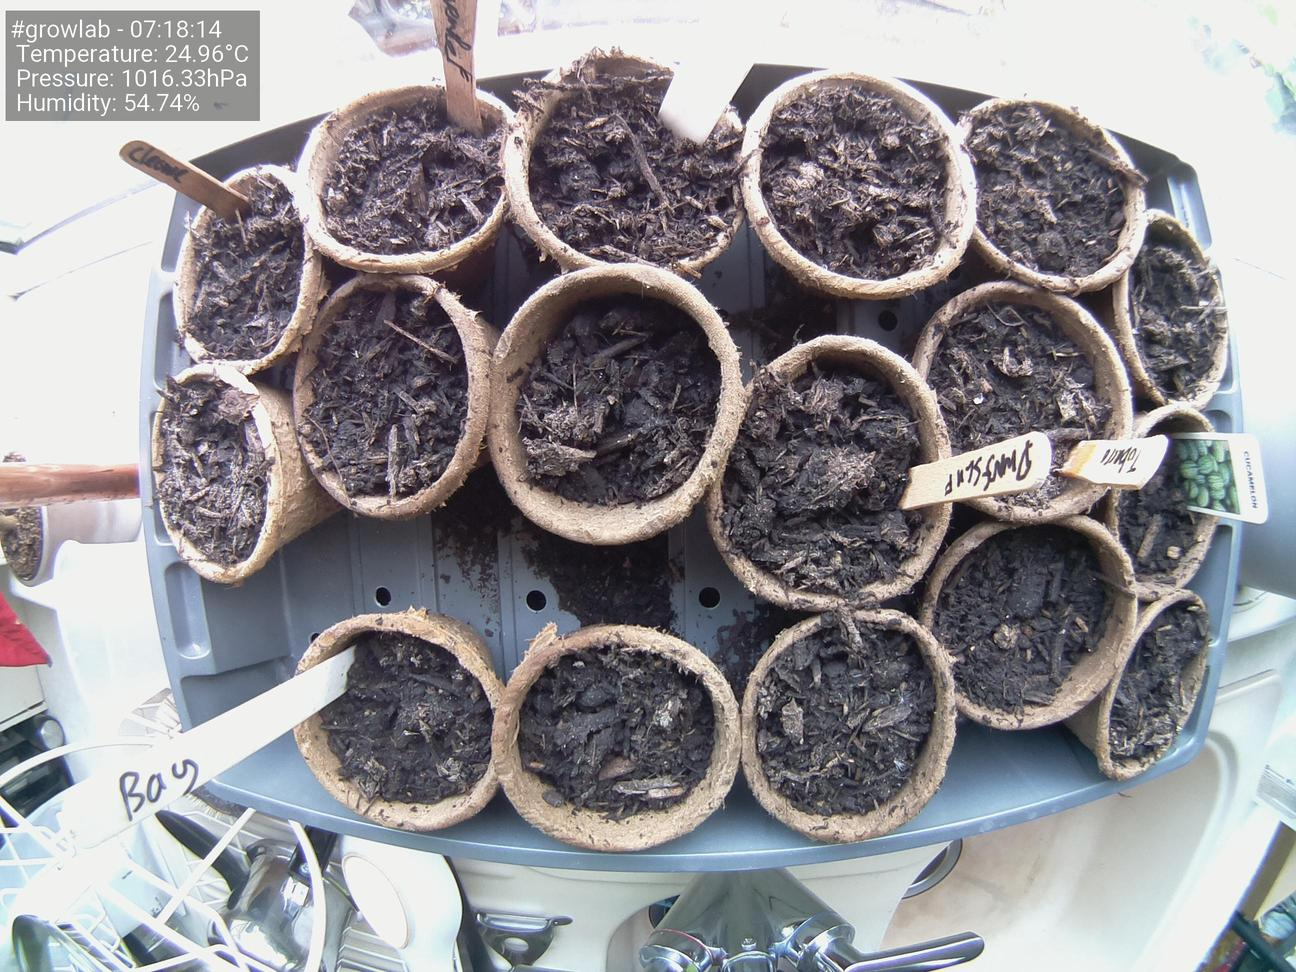
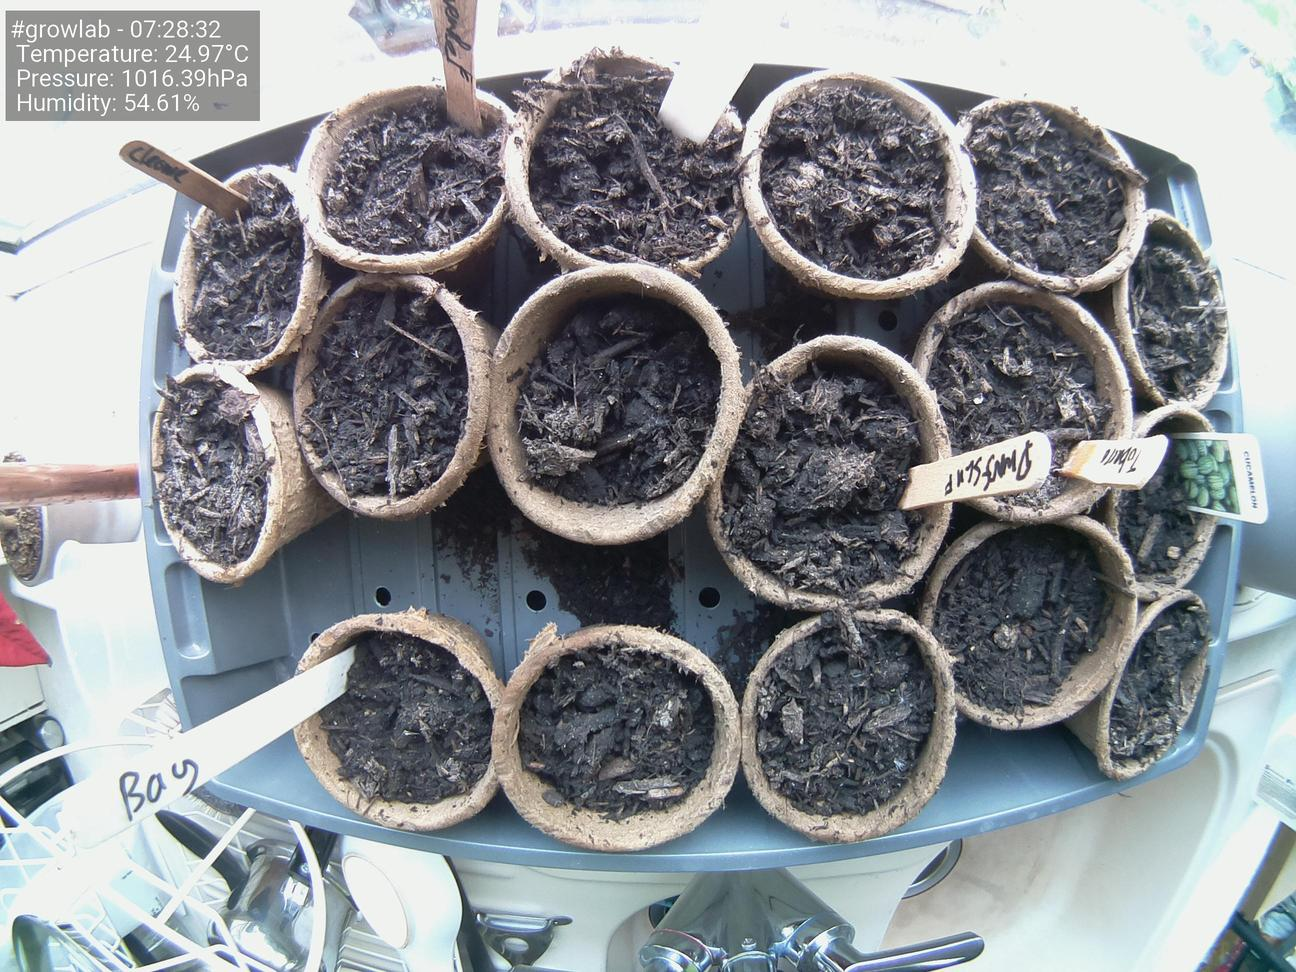
Update images at Thu  3 Jun 07:28:41 BST 2021

Changed region(s): [[0.1543, 0.0309, 0.1852, 0.0926], [0.1235, 0.0926, 0.1543, 0.1235]]

diff --git a/docs/index.html b/docs/index.html
@@ -47,19 +47,19 @@
                         <tbody>
                             <tr>
                                 <td>Time</td>
-                                <td>07:18:14</td>
+                                <td>07:28:32</td>
                             </tr>
                             <tr>
                                 <td>Temperature</td>
-                                <td>24.96°C</td>
+                                <td>24.97°C</td>
                             </tr>
                             <tr>
                                 <td>Humidity</td>
-                                <td>54.74%</td>
+                                <td>54.61%</td>
                             </tr>
                             <tr>
                                 <td>Pressure</td>
-                                <td>1016.33hPa</td>
+                                <td>1016.39hPa</td>
                             </tr>
                         </tbody>
                     </table>
@@ -67,7 +67,7 @@
 
                 <h5>Latest image</h5>
                 <div style="width: 85%;">
-                            <img class="figure-img img-fluid rounded" src="./preview.jpg?uid=1622701103.1047583">
+                            <img class="figure-img img-fluid rounded" src="./preview.jpg?uid=1622701721.5181377">
                 </div>
             </div>
         </div>
